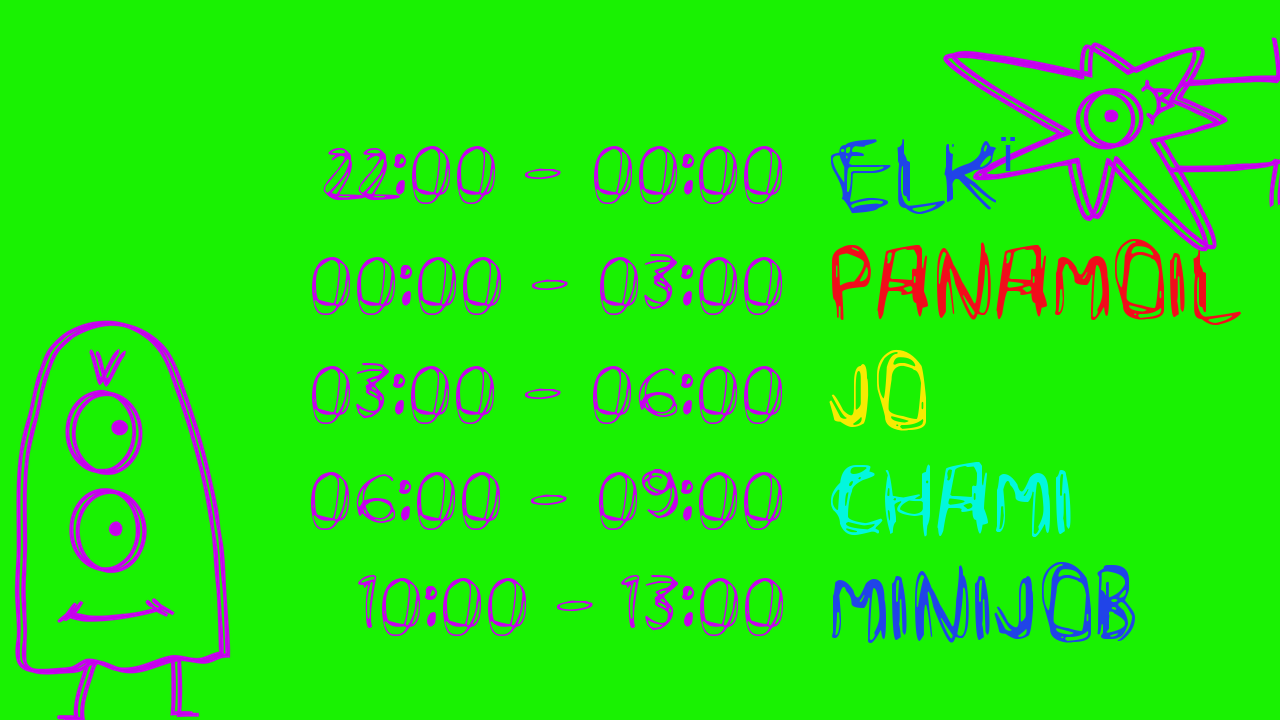
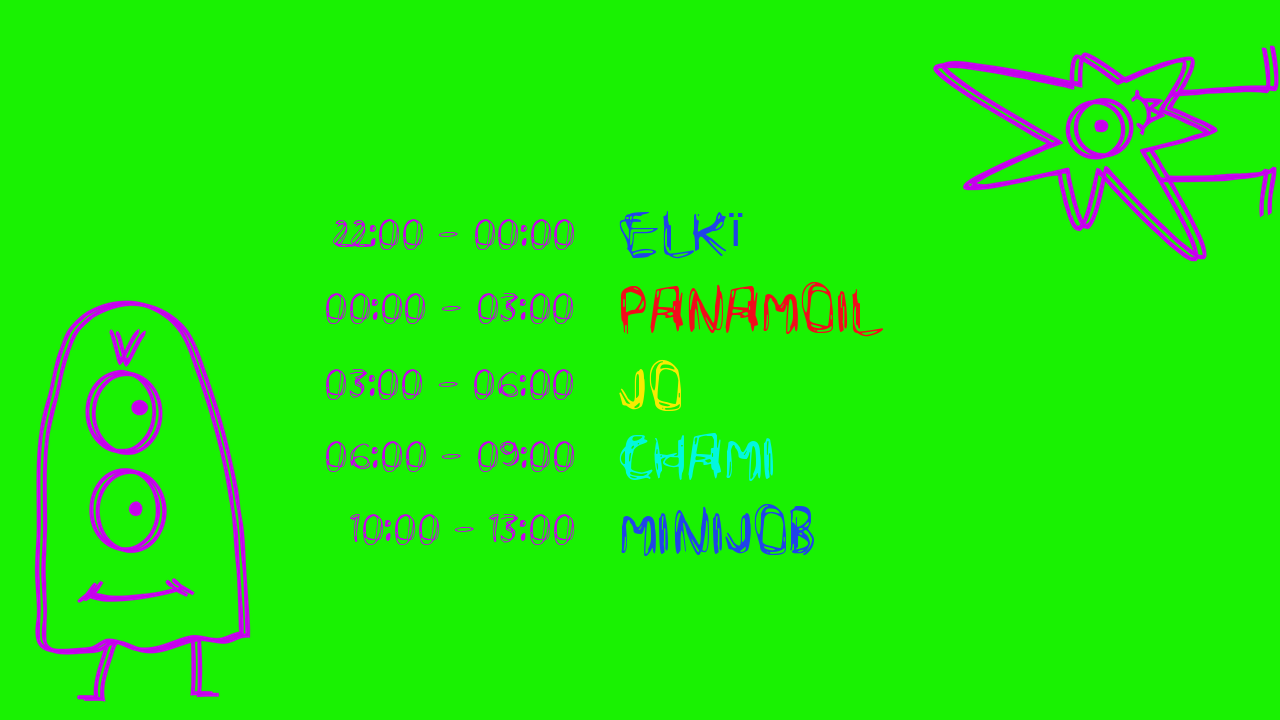
feat: composite (PAL) render mode + fix monster overlap and accent glyphs
Add a --mode composite path to gen_frames.py rendering 720x576 PAL frames
(overscan-safe inset, shrunk monsters) into kiosk_frames_pal/ for the CRT,
alongside the existing 1280x720 HDMI set. Layout is now canvas-relative.

Also fixes two pre-existing layout bugs in both modes:
- guard the top-right monster so the first DJ name no longer draws over it
- baseline-anchor mixed-font runs and oversize the Arial fallback so accented
  glyphs (ã in João, ï in Elkï) sit inline instead of as tiny superscripts

Changed region(s): [[0.2188, 0.0611, 1.0, 0.8861], [0.0, 0.3972, 0.2188, 1.0], [0.25, 0.1833, 0.4375, 0.275]]

diff --git a/mnj-lineup/tools/gen_frames.py b/mnj-lineup/tools/gen_frames.py
@@ -5,6 +5,7 @@ Each day gets a folder of frames; across frames a random subset of DJ names is
 dimmed to fake the faulty-neon blink. fbi cycles the frames on the Pi.
 """
 
+import argparse
 import os
 import random
 from PIL import Image, ImageDraw, ImageFont
@@ -15,9 +16,22 @@ random.seed(2026)
 HERE = os.path.dirname(os.path.abspath(__file__))
 ROOT = os.path.dirname(HERE)
 FONT_PATH = os.path.join(ROOT, "assets", "fonts", "ScribbleWire.ttf")
-OUT = os.path.join(ROOT, "kiosk_frames")
 
-W, H = 1280, 720
+# HDMI (720p) vs PAL composite for the CRT. Composite is 720x576 but a CRT
+# overscans, so we draw the whole scene inside a safe inset and never near the
+# physical edge. Output dirs are separate so both sets can ship together.
+# mscale shrinks the monsters relative to their nominal width fraction. On the
+# small 720px composite canvas the full-size monsters left only ~240px for the
+# lineup (too narrow for "João Comazzi"), so they're scaled down there.
+#
+# PAL framebuffer is always 720x576, but a 4:3 tube stretches those pixels
+# vertically (non-square pixels). We still render a 720x576 PNG (that's what the
+# framebuffer is), and sdtv_aspect=2 tells the firmware to present it 4:3. The
+# layout adapts via the H-relative fractions, so it stays balanced on the tube.
+MODES = {
+    "hdmi": dict(W=1280, H=720, out="kiosk_frames", inset=0, mscale=1.0),
+    "composite": dict(W=720, H=576, out="kiosk_frames_pal", inset=48, mscale=0.4),
+}
 BG = (25, 242, 2)            # #19f202
 MONSTER = (198, 0, 237)      # #c600ed
 DJ_COLORS = {
@@ -48,18 +62,25 @@ LINEUPS = {
 }
 
 FRAMES_PER_DAY = 6
-TIME_SIZE = 40
-DJ_SIZE = 52
-ROW_GAP = 22
-COL_GAP = 44
-TOP_BIAS = 24  # slight downward bias
-SIDE_MARGIN = 40  # keep the whole block this far from screen edges
+# Type/spacing as a fraction of canvas height so both resolutions look alike.
+TIME_FRAC = 40 / 720
+DJ_FRAC = 52 / 720
+ROW_GAP_FRAC = 22 / 720
+COL_GAP_FRAC = 44 / 1280
+TOP_BIAS_FRAC = 24 / 720
 
-# Monsters scaled down to frame the corners without crowding the text.
-m1 = Image.open("/tmp/monster1_big.png").convert("RGBA")  # bottom-left
-m2 = Image.open("/tmp/monster2_big.png").convert("RGBA")  # top-right
-m1 = m1.resize((int(m1.width * 0.62), int(m1.height * 0.62)), Image.LANCZOS)
-m2 = m2.resize((int(m2.width * 0.5), int(m2.height * 0.5)), Image.LANCZOS)
+# Monster footprint as a fraction of canvas width. The old 1280-wide frames used
+# 0.62*460=285px (bottom-left) and 0.5*720=360px (top-right); keep those ratios.
+M1_WFRAC = 0.62 * 460 / 1280  # bottom-left, ~0.223 of width
+M2_WFRAC = 0.5 * 720 / 1280   # top-right, ~0.281 of width
+
+_m1_src = Image.open("/tmp/monster1_big.png").convert("RGBA")  # bottom-left
+_m2_src = Image.open("/tmp/monster2_big.png").convert("RGBA")  # top-right
+
+
+def scale_to_width(img, target_w):
+    f = target_w / img.width
+    return img.resize((int(img.width * f), int(img.height * f)), Image.LANCZOS)
 
 
 # Fallback font for glyphs ScribbleWire lacks (accents like ã, ï).
@@ -77,8 +98,14 @@ def load_font(size):
     return ImageFont.truetype(FONT_PATH, size)
 
 
+# ScribbleWire's hand-drawn caps are much taller than Arial at the same point
+# size, so an accented glyph borrowed from Arial looks like a shrunken
+# superscript. Oversize the fallback so its cap-height roughly matches.
+FALLBACK_SCALE = 1.5
+
+
 def load_fallback(size):
-    return ImageFont.truetype(FALLBACK_PATH, size)
+    return ImageFont.truetype(FALLBACK_PATH, round(size * FALLBACK_SCALE))
 
 
 def runs(txt):
@@ -94,13 +121,17 @@ def runs(txt):
 
 
 def measure(draw, txt, scribble, fallback):
-    """Total advance width and max ascent/descent for mixed-font text."""
+    """Width and baseline-relative top/bottom for mixed-font text.
+
+    top/bot are measured from the shared baseline (anchor 'ls'), so glyphs from
+    different fonts line up on one baseline instead of by their bbox tops.
+    """
     w = 0
     top = 0
     bot = 0
     for s, fb in runs(txt):
         font = fallback if fb else scribble
-        b = draw.textbbox((0, 0), s, font=font)
+        b = draw.textbbox((0, 0), s, font=font, anchor="ls")
         w += draw.textlength(s, font=font)
         top = min(top, b[1])
         bot = max(bot, b[3])
@@ -108,36 +139,45 @@ def measure(draw, txt, scribble, fallback):
 
 
 def draw_mixed(draw, xy, txt, scribble, fallback, fill):
-    """Draw text left-to-right switching to the fallback font per glyph run."""
+    """Draw left-to-right switching fonts per run, all on one baseline.
+
+    xy is the left end of the baseline (anchor 'ls').
+    """
     x, y = xy
     for s, fb in runs(txt):
         font = fallback if fb else scribble
-        draw.text((x, y), s, font=font, fill=fill)
+        draw.text((x, y), s, font=font, fill=fill, anchor="ls")
         x += draw.textlength(s, font=font)
 
 
-def text_size(draw, txt, font):
-    b = draw.textbbox((0, 0), txt, font=font)
-    return b[2] - b[0], b[3] - b[1]
-
-
-def render_frame(day, frame_idx):
+def render_frame(cfg, m1, m2, day, frame_idx):
+    W, H, inset = cfg["W"], cfg["H"], cfg["inset"]
     img = Image.new("RGB", (W, H), BG)
 
     # Monsters first (behind text). monster2 top-right, monster1 bottom-left.
-    img.paste(m2, (W - m2.width + 10, -10), m2)
-    img.paste(m1, (-20, H - m1.height + 20), m1)
+    # On composite they hug the safe inset, not the physical (overscanned) edge.
+    img.paste(m2, (W - m2.width - inset, inset), m2)
+    img.paste(m1, (inset, H - m1.height - inset), m1)
 
     draw = ImageDraw.Draw(img)
     slots = LINEUPS[day]
 
-    # The lineup block must fit between the bottom-left monster and the right
-    # margin, so the available width excludes the monster's footprint.
-    LEFT_GUARD = m1.width + 20
-    avail_w = W - SIDE_MARGIN - LEFT_GUARD
+    COL_GAP = round(COL_GAP_FRAC * W)
+    ROW_GAP = round(ROW_GAP_FRAC * H)
+    TOP_BIAS = round(TOP_BIAS_FRAC * H)
+    min_dj = round(DJ_FRAC * H * 0.54)  # don't shrink below ~54% of nominal
+
+    # The lineup block must clear BOTH monsters: the bottom-left one (LEFT_GUARD)
+    # and the top-right one (RIGHT_GUARD). The block is vertically centered, so
+    # the top rows sit exactly where the top-right monster is — guard that edge
+    # too or the first name draws over it (it did before this guard existed).
+    pad = round(20 / 1280 * W)
+    LEFT_GUARD = inset + m1.width + pad
+    RIGHT_GUARD = inset + m2.width + pad
+    avail_w = W - RIGHT_GUARD - LEFT_GUARD
 
     # Shrink fonts until the widest row fits that available width.
-    time_size, dj_size = TIME_SIZE, DJ_SIZE
+    time_size, dj_size = round(TIME_FRAC * H), round(DJ_FRAC * H)
     while True:
         time_font = load_font(time_size)
         time_fb = load_fallback(time_size)
@@ -146,7 +186,7 @@ def render_frame(day, frame_idx):
         time_w_max = max(measure(draw, t, time_font, time_fb)[0] for t, _ in slots)
         dj_w_max = max(measure(draw, d, dj_font, dj_fb)[0] for _, d in slots)
         block_w = time_w_max + COL_GAP + dj_w_max
-        if block_w <= avail_w or dj_size <= 28:
+        if block_w <= avail_w or dj_size <= min_dj:
             break
         time_size -= 2
         dj_size -= 2
@@ -177,15 +217,17 @@ def render_frame(day, frame_idx):
     for i, (t, d) in enumerate(slots):
         rh = row_heights[i]
         tw, tt, tbot = measure(draw, t, time_font, time_fb)
-        # time (purple, right-aligned); subtract bbox top so baseline aligns
-        draw_mixed(draw, (time_right_x - tw, y - tt + (rh - (tbot - tt)) // 2),
+        # time (purple, right-aligned); place on a baseline centered in the row.
+        t_base = y + (rh - (tbot - tt)) // 2 - tt
+        draw_mixed(draw, (time_right_x - tw, t_base),
                    t, time_font, time_fb, MONSTER)
         # dj name (cycling color, left-aligned), dimmed if off this frame
         color = DJ_COLORS[DJ_ORDER[i % len(DJ_ORDER)]]
         if i in off:
             color = dim(color)
         dw, dt, dbot = measure(draw, d, dj_font, dj_fb)
-        draw_mixed(draw, (dj_left_x, y - dt + (rh - (dbot - dt)) // 2),
+        d_base = y + (rh - (dbot - dt)) // 2 - dt
+        draw_mixed(draw, (dj_left_x, d_base),
                    d, dj_font, dj_fb, color)
         y += rh + ROW_GAP
 
@@ -193,13 +235,26 @@ def render_frame(day, frame_idx):
 
 
 def main():
+    ap = argparse.ArgumentParser()
+    ap.add_argument("--mode", choices=MODES, default="hdmi",
+                    help="hdmi (1280x720) or composite (720x576 PAL, overscan-safe)")
+    args = ap.parse_args()
+    cfg = MODES[args.mode]
+    W = cfg["W"]
+
+    ms = cfg["mscale"]
+    m1 = scale_to_width(_m1_src, round(M1_WFRAC * W * ms))
+    m2 = scale_to_width(_m2_src, round(M2_WFRAC * W * ms))
+
+    out = os.path.join(ROOT, cfg["out"])
     for day in (1, 2):
-        d = os.path.join(OUT, f"day{day}")
+        d = os.path.join(out, f"day{day}")
         os.makedirs(d, exist_ok=True)
         for f in range(FRAMES_PER_DAY):
-            img = render_frame(day, f)
+            img = render_frame(cfg, m1, m2, day, f)
             img.save(os.path.join(d, f"frame{f:02d}.png"))
-        print(f"day{day}: {FRAMES_PER_DAY} frames -> {d}")
+        print(f"[{args.mode}] day{day}: {FRAMES_PER_DAY} frames "
+              f"({cfg['W']}x{cfg['H']}) -> {d}")
 
 
 if __name__ == "__main__":
